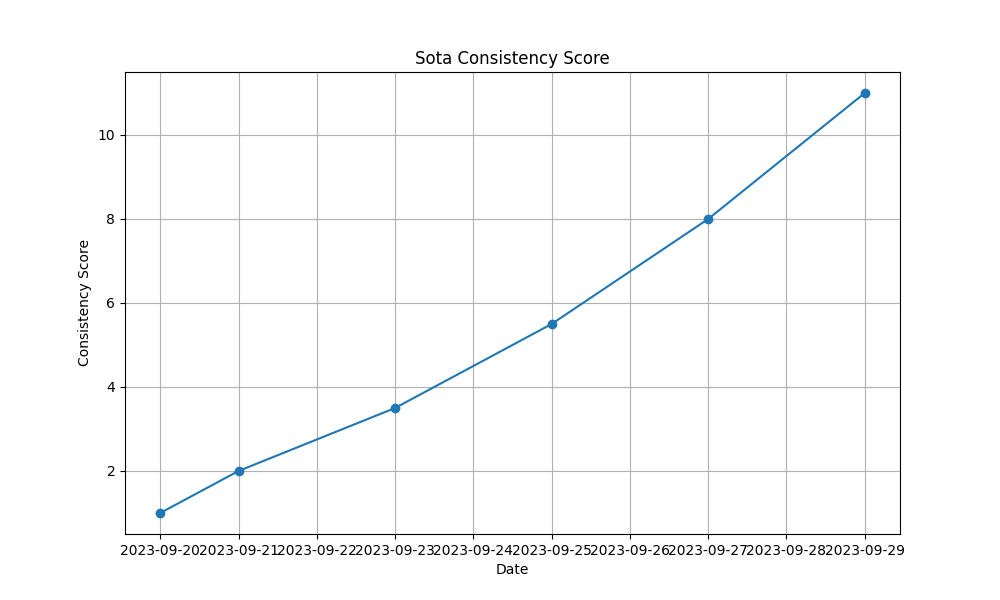
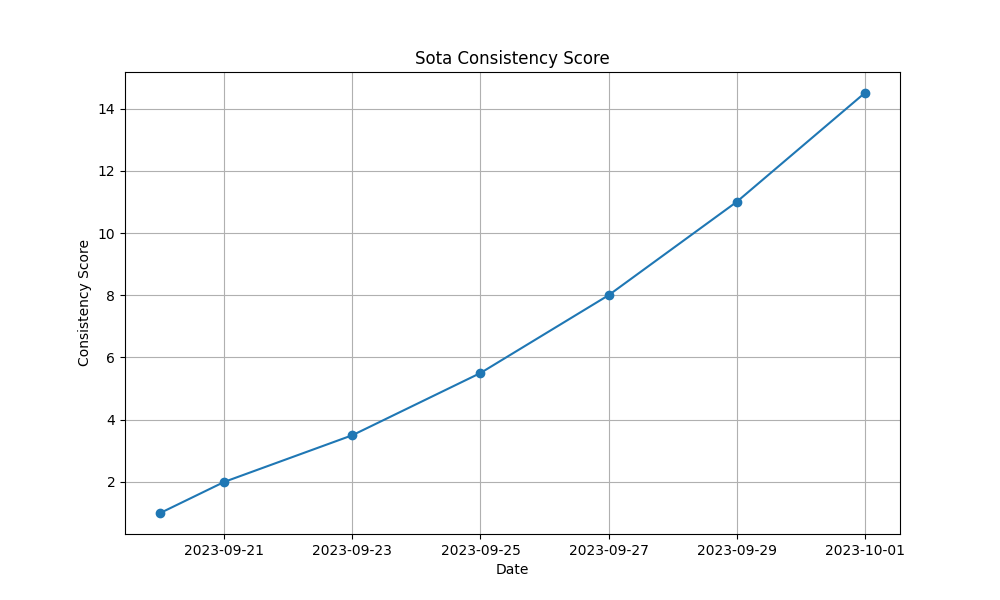
scheduled update

diff --git a/sota_data.py b/sota_data.py
@@ -6,7 +6,8 @@ SOTA_DATA = [
     {"date": "2023-09-23", "distance_miles": 2.84, "time_minutes": 30, "name": "Sota"},
     {"date": "2023-09-25", "distance_miles": 2.32, "time_minutes": 30, "name": "Sota"},
     {"date": "2023-09-27", "distance_miles": 2.67, "time_minutes": 30, "name": "Sota"},
-    {"date": "2023-09-29", "distance_miles": 2.79, "time_minutes": 83, "name": "Sota"}
+    {"date": "2023-09-29", "distance_miles": 2.79, "time_minutes": 83, "name": "Sota"},
+    {"date": "2023-10-01", "distance_miles": 1.62, "time_minutes": 56, "name": "Sota"}
 ]
 
 SOTA_CONSISTENCY_TUPLES = [(datum['time_minutes'], util.to_date(datum['date'])) for datum in SOTA_DATA]

diff --git a/zena_data.py b/zena_data.py
@@ -7,7 +7,8 @@ ZENA_DATA = [
     {"date": "2023-09-25", "distance_miles": 3.25, "time_minutes": 65, "name": "Zena"},
     {"date": "2023-09-27", "distance_miles": 3.74, "time_minutes": 65, "name": "Zena"},
     {"date": "2023-09-29", "distance_miles": 3.80, "time_minutes": 65, "name": "Zena"},
-    {"date": "2023-09-30", "distance_miles": 3.94, "time_minutes": 65, "name": "Zena"}
+    {"date": "2023-09-30", "distance_miles": 3.94, "time_minutes": 65, "name": "Zena"},
+    {"date": "2023-10-02", "distance_miles": 3.44, "time_minutes": 65, "name": "Zena"}
 ]
 
 ZENA_CONSISTENCY_TUPLES = [(datum['time_minutes'], util.to_date(datum['date'])) for datum in ZENA_DATA]
